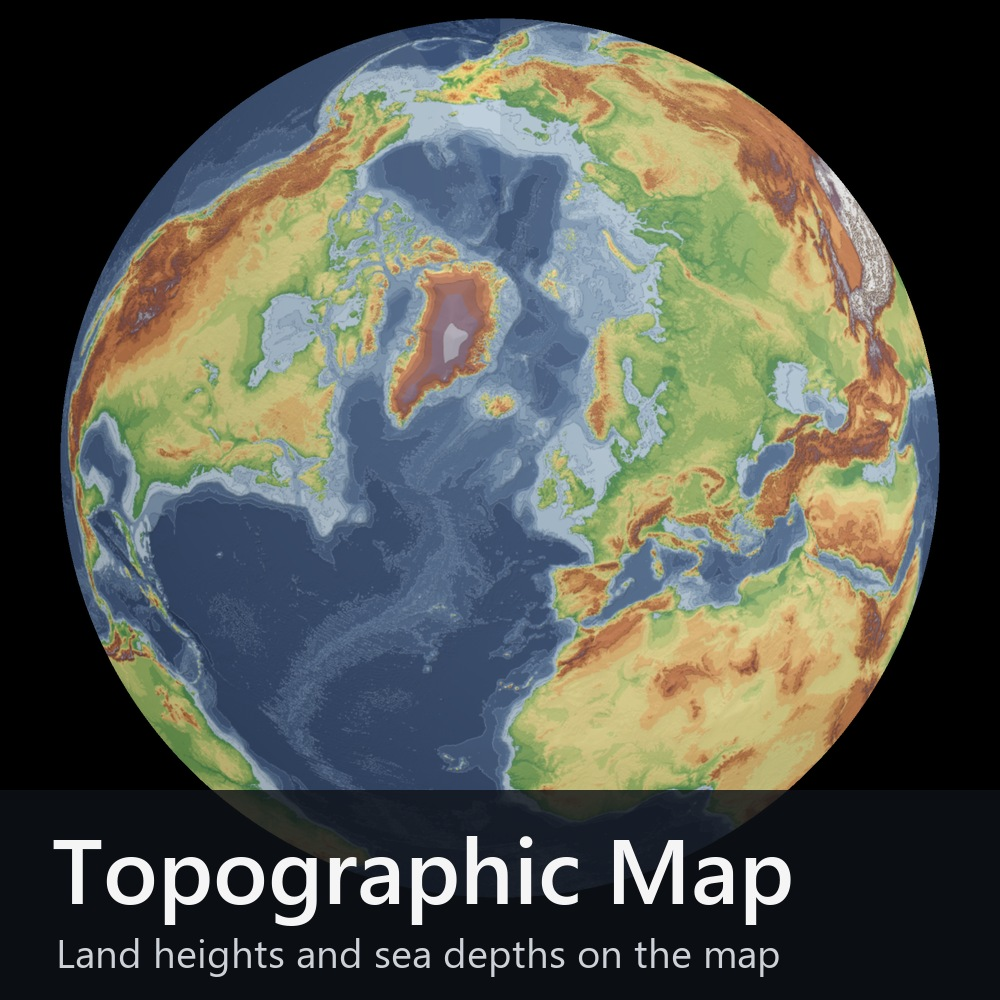
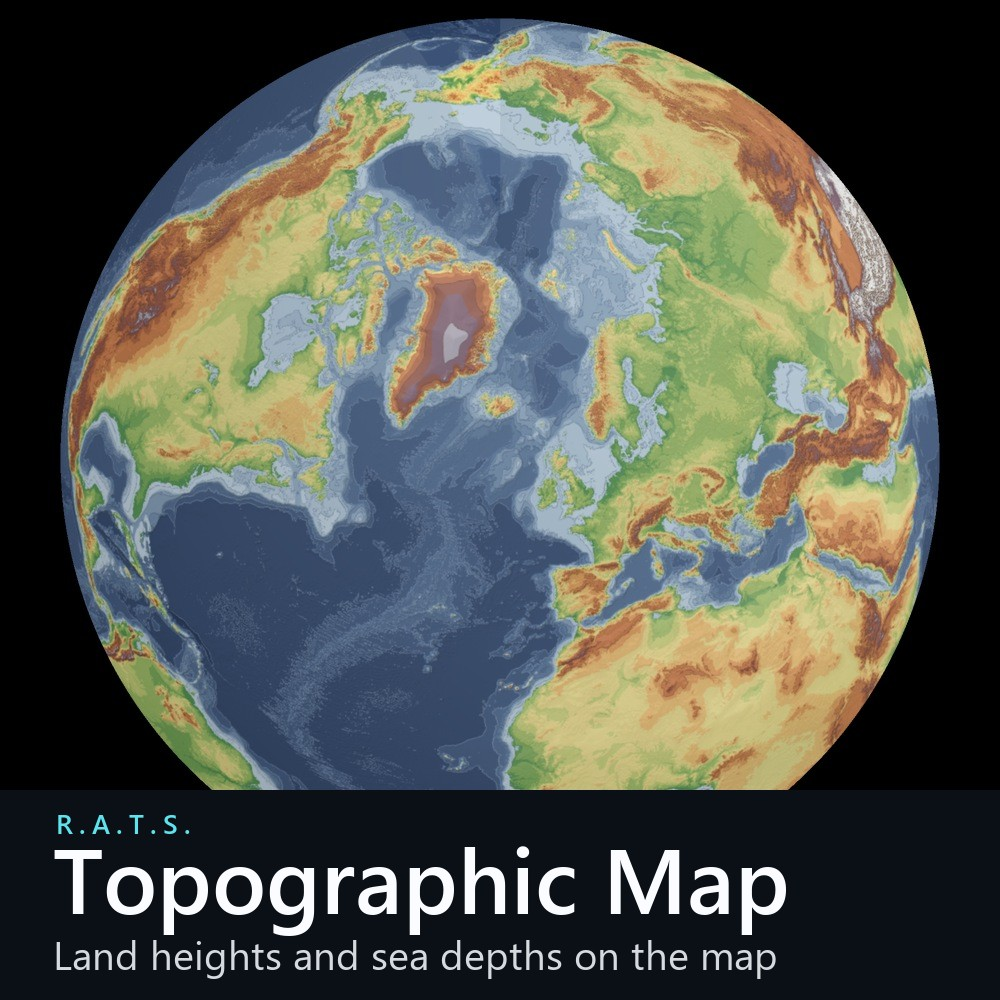
R.A.T.S. branding: README heading, Workshop description (title, tagline, signature) and main picture with the brand mark

Changed region(s): [[0.031, 0.775, 0.806, 0.992]]

diff --git a/README.md b/README.md
@@ -1,4 +1,4 @@
-# Sea Power Topographic Map
+# Sea Power: R.A.T.S. Topographic Map
 
 **[Get it on the Steam Workshop](https://steamcommunity.com/sharedfiles/filedetails/?id=3826122523)** – requires
 [Anchor Chain](https://steamcommunity.com/sharedfiles/filedetails/?id=3380210757).
